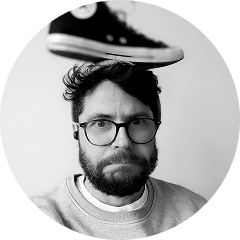
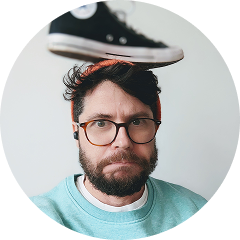
Adding overlay to circle images. Adding boolen for OTW-overlay.

diff --git a/src/components/solidarity/Cards.svelte b/src/components/solidarity/Cards.svelte
@@ -6,55 +6,69 @@
       src: "https://placehold.co/64x64@2x.png",
       width: 64,
       height: 64,
+      overlay: false,
     },
     {
       src: "https://placehold.co/64x64@2x.png",
       width: 64,
       height: 64,
+      overlay: false,
     },
     {
       src: "https://placehold.co/64x64@2x.png",
       width: 64,
       height: 64,
+      overlay: false,
     },
     {
       src: "https://placehold.co/64x64@2x.png",
       width: 64,
       height: 64,
+      overlay: false,
     },
     {
-      src: "../../../../public/solidarity/me-shoe.png",
+      src: "/solidarity/me-shoe.png",
       width: 128,
       height: 128,
+      overlay: true,
     },
     {
       src: "https://placehold.co/64x64@2x.png",
       width: 64,
       height: 64,
+      overlay: false,
     },
     {
       src: "https://placehold.co/64x64@2x.png",
       width: 64,
       height: 64,
+      overlay: false,
     },
     {
       src: "https://placehold.co/64x64@2x.png",
       width: 64,
       height: 64,
+      overlay: false,
     },
     {
       src: "https://placehold.co/64x64@2x.png",
       width: 64,
       height: 64,
+      overlay: false,
     },
   ];
 </script>
 
-<div class="relative mt-32 flex w-1/3 items-start justify-center">
+<div class="relative flex h-full w-full items-start justify-center">
+  <div class="overlay absolute top-[-2px] z-10 min-h-[325px] w-full"></div>
   {#each users as user, index}
     <Card {...user} itemNumber={index} />
   {/each}
 </div>
 
 <style>
+  @reference "@styles/solidarity.css";
+  .overlay {
+    background: url("/solidarity/gradient-bg.png") center/cover no-repeat;
+  }
 </style>

diff --git a/src/components/solidarity/partials/Card.svelte b/src/components/solidarity/partials/Card.svelte
@@ -3,6 +3,7 @@
   export let height: number;
   export let width: number;
   export let itemNumber: number;
+  export let overlay: boolean;
 
   function getItemClasses(itemNumber: number): string {
     if (itemNumber === 4) return "center-item absolute top-32 left-1/2 z-10";
@@ -12,11 +13,13 @@
   let checkItemNumber = itemNumber === 4 ? "shadow-lg shadow-stone-900/10" : "";
   $: itemAlign = getItemClasses(itemNumber);
 
-  $: sizeClass = width === 64 ? "w-16 h-16" : width === 128 ? "w-32 h-32" : "";
+  $: sizeClass = width === 64 ? "w-16 h-16" : width === 128 ? "w-32 h-32 shadow" : "";
 </script>
 
 <div class={itemAlign}>
-  <img src="../../../../public/solidarity/otw-overlay.png" class="overlay absolute {sizeClass} rounded-full" />
+  {#if overlay}
+    <img src="/solidarity/otw-overlay.png" class="overlay absolute {sizeClass} rounded-full" />
+  {/if}
   <img {src} alt="" {width} {height} class="rounded-full border-transparent {checkItemNumber}" />
 </div>
 
@@ -50,5 +53,14 @@
   }
   .circle-item-8 {
     transform: translate(calc(-50% - 92px), -92px);
+  }
+
+  .shadow {
+    box-shadow:
+      0 83px 23px 0 rgba(105, 105, 105, 0),
+      0 53px 21px 0 rgba(105, 105, 105, 0.01),
+      0 30px 18px 0 rgba(105, 105, 105, 0.05),
+      0 13px 13px 0 rgba(105, 105, 105, 0.09),
+      0 3px 7px 0 rgba(105, 105, 105, 0.1);
   }
 </style>
